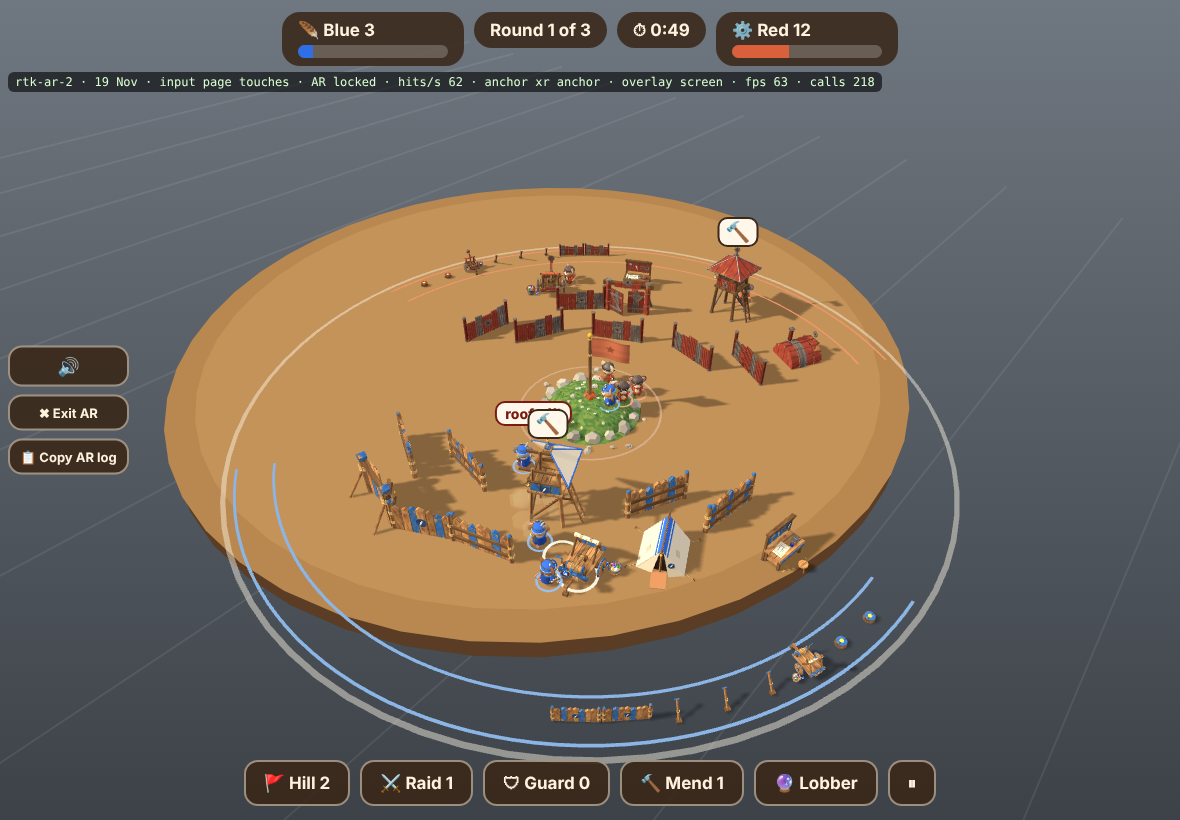
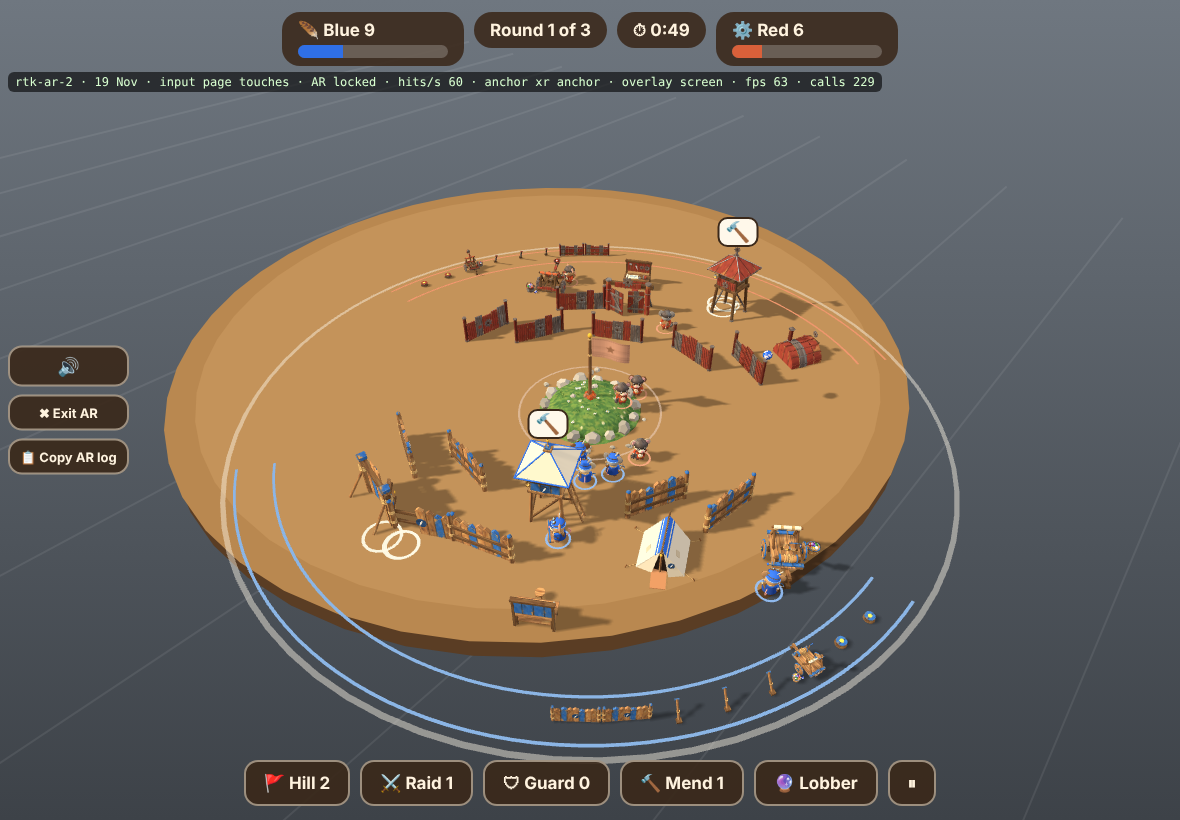
Rolling shots (Lab on, matches off): hops, roll, knock, slowing; Marble/Big/Bouncer; roll test and shots; Lab switch
Claude-Session: https://claude.ai/code/session_0171oc5wTsPoimaja7RRfUcs

diff --git a/games/sofa-siege/game.js b/games/sofa-siege/game.js
@@ -647,7 +647,7 @@ function landV2(a,pos,hit){var A=AMMO[a.ammo]||AMMO.marble,W=A.w,n0=SG.stats.par
   var r=boom(a,pos,hit);
   if(SG.mode==='lab'){labNote('land',a,pos,r.R,hit);labFx(SG.stats.partsOff-n0);}
   snd('thud');a.live=false;a.T=a.t;a.hx=pos[0];a.hy=pos[1];a.hz=pos[2];if(a.ammo!=='corks'||!SG.lastHit||SG.lastHit.id!==a.id)SG.lastHit={id:a.id,side:a.side,ammo:a.ammo,x:pos[0],y:pos[1],z:pos[2],piece:hit?hit.id:0,own:!!hit&&hit.side===a.side,part:'',knocked:r.knocked,dizzied:r.n,t:SG.clock};viewPuff(pos[0],pos[2],W.legForce?2:1.2);
-  if(W.roll>0)rollStart(a,pos);}
+  if(W.roll>0)rollStart(a,pos);else if(!hit)momentumLands(a,pos);}
 /* what a landing does, in the order: a tether yanks its part, the blast, mice made dizzy, glue and slowing, a quake. Returns {R, n (mice), knocked (parts off by the blast)}. */
 function boom(a,pos,hit){var A=AMMO[a.ammo]||AMMO.marble,W=A.w,u=U(),n=0,knocked=0,R=labProto('blastR',ammoR(a.ammo,a.high),a),en=1-a.side;
   if(SG.mode==='lab'&&SG.lab){var dl=Math.sqrt((a.x1-a.x0)*(a.x1-a.x0)+(a.z1-a.z0)*(a.z1-a.z0))||1;SG.lastDir={x:(a.x1-a.x0)/dl,z:(a.z1-a.z0)/dl};}
@@ -676,8 +676,62 @@ function tetherAt(a,pos,hit){var u=U(),best=null,bd=1e9;
   if(hit&&hit.total&&hit.side!==a.side&&!hit.down){var i=nearestPart(hit,pos[0],pos[1],pos[2],false);if(i>=0)return {p:hit,i:i};}
   SG.pieces.forEach(function(p){if(p.side===a.side||!p.built||p.down||!p.total||p.parts<=0||Math.abs(p.x-pos[0])>.9||Math.abs(p.z-pos[2])>.9)return;p.ps.forEach(function(q,i){if(q.st!=='on'||q.wy>.35*u)return;var d=dist(q.wx,q.wz,pos[0],pos[2]);if(d<C3.hookR*2.5*u&&d<bd){bd=d;best={p:p,i:i};}});});return best;}
 /* a roller: after landing it rolls on in the direction of travel, knocking off parts at its base and making mice dizzy */
+/* ================= ROLLING SHOTS (CONFIG.v2.rolling) =================
+   A Marble that comes down on open ground does not stop: it hops on 1 to 3 times (each hop shorter and lower, with dust and a tap),
+   then ROLLS on along its flight line, losing distance with every part it knocks loose. The ball has an energy in table units;
+   moving spends it, and each part it meets costs some (a plank a little, a rail more, a post a lot, a Keep part more than any ball has).
+   A part that costs more than the ball has left stops it. A Big Marble is heavy (its cost counts less) and has more energy, so it ploughs
+   through planks and light walls. A gap or a gate with no door lets it pass. Off in matches until the balance is proved; on in the Lab.
+   Touching down on a piece (a hit) still works as before: only a landing on open ground rolls. */
+CONFIG.v2.rolling={
+  on:false,                                   /* matches: off until re-proved. (The Lab has its own switch, on by default.) */
+  speed:2.4,minSpeed:.3,                      /* table units a second at full energy; the slowest it rolls (share of that) */
+  reach:.06,high:.09,                         /* how near a part the ball's middle must come (across, and up and down) to touch it */
+  marble:{hops:2,hopLen:.5,hopH:.16,decay:.6,roll:1.3,mass:1},           /* hops (1 to 3), the first hop's length and height, how much each next one shrinks, the roll after the hops, how much parts' cost counts */
+  big:{hops:1,hopLen:.4,hopH:.1,decay:.6,roll:2.8,mass:.4},
+  bouncer:{roll:.2,mass:.9},                  /* after its own hops (the Bouncer's weapon numbers) a Bouncer rolls this much more */
+  cost:{plank:.35,door:.5,rail:.8,brace:.6,post:2,lintel:1.4,other:.5,tent:1,workshop:1.2,lobber:.8,trap:0,heavy:9},   /* the energy a part takes from the ball; a Keep part (heavy) is more than any ball has */
+  dizzy:true,max:40                           /* mice on the other side it runs into are dizzy; most parts one ball can knock */
+};
+SG.rollingOn=function(){var R=CONFIG.v2.rolling;return SG.mode==='lab'?SG.labRolling!==false:!!R.on;};
+SG.setRolling=function(v){if(SG.mode==='lab')SG.labRolling=!!v;else CONFIG.v2.rolling.on=!!v;if(hasDom)ui();return SG.rollingOn();};
+function rollCost(p,q){var K=CONFIG.v2.rolling.cost,id=q.id||'';if(p.kind==='tower')return K.heavy;
+  if(p.kind==='wall'||p.kind==='gate'){if(/plank/.test(id))return K.plank;if(/door/.test(id))return K.door;if(/rail/.test(id))return K.rail;if(/lintel/.test(id))return K.lintel;if(/post/.test(id))return K.post;return K.other;}
+  if(p.kind==='brace')return K.brace;if(p.kind==='tent')return K.tent;if(p.kind==='workshop')return K.workshop;if(p.kind==='lobber')return K.lobber;if(p.kind==='trap')return K.trap;return K.other;}
+/* the ball starts: from where it came down, along its flight line */
+function momentumStart(a,pos,kind){var R=CONFIG.v2.rolling,c=R[kind==='big'?'big':(kind==='bouncer'?'bouncer':'marble')],u=U(),dx=a.x1-a.x0,dz=a.z1-a.z0,l=Math.sqrt(dx*dx+dz*dz)||1,hops=[],E=0,i;
+  if(kind!=='bouncer'){var n=Math.max(1,Math.min(3,c.hops|0));for(i=0;i<n;i++){hops.push([c.hopLen*Math.pow(c.decay,i)*u,c.hopH*Math.pow(c.decay,i)*u]);}}
+  hops.forEach(function(h){E+=h[0];});E+=c.roll*u;
+  a.rolling=true;a.live=true;a.rm={x:pos[0],z:pos[2],y:.05,dx:dx/l,dz:dz/l,E:E,E0:E,hops:hops,hi:-1,hs:0,mass:c.mass,n:0,tr:0,v:R.speed*u,v0:R.speed*u,hit:0,last:null};
+  a.hy=.05;a.hx=pos[0];a.hz=pos[2];momentumHop(a);}
+function momentumHop(a){var r=a.rm;r.hi++;r.hs=0;if(r.hi<r.hops.length){r.cur=r.hops[r.hi];}else r.cur=null;}
+function momentumEnd(a){var n0=SG.stats.partsOff;a.rolling=false;a.live=false;a.T=a.t;a.rm.done=true;a.hy=.05;viewPuff(a.rm.x,a.rm.z,.5);if(SG.mode==='lab')labFx(SG.stats.partsOff-n0);}
+function momentumTick(a,dt){var r=a.rm,R=CONFIG.v2.rolling,u=U(),want=Math.max(R.minSpeed,r.E/r.E0)*r.v0,n0=SG.stats.partsOff;r.v=want;
+  var dist0=r.v*dt,steps=Math.max(1,Math.ceil(dist0/(.03*u))),sd=dist0/steps;
+  for(var s=0;s<steps&&r.E>0;s++){
+    r.x+=r.dx*sd;r.z+=r.dz*sd;r.E-=sd;r.hs+=sd;
+    if(r.cur){var k=Math.min(1,r.hs/r.cur[0]);r.y=.05+4*r.cur[1]*k*(1-k);if(r.hs>=r.cur[0]){r.y=.05;SG.stats.bounces++;snd('tap');viewPuff(r.x,r.z,.45);momentumHop(a);}}else r.y=.05;
+    if(r.x*r.x+r.z*r.z>3.1*3.1){r.E=0;break;}
+    /* the nearest part within reach */
+    var bp=null,bi=-1,bd=1e9,rr=(R.reach)*u;
+    for(var pi=0;pi<SG.pieces.length;pi++){var p=SG.pieces[pi];if(p.id===a.from||!p.built||p.down||!p.total||p.parts<=0||Math.abs(p.x-r.x)>.9||Math.abs(p.z-r.z)>.9)continue;
+      for(var qi=0;qi<p.ps.length;qi++){var q=p.ps[qi];if(q.st!=='on'||Math.abs(q.wy-r.y)>R.high*u+rr*.3)continue;var d=dist(q.wx,q.wz,r.x,r.z);if(d<rr+.045*u&&d<bd){bd=d;bp=p;bi=qi;}}}
+    for(var ti=0;ti<SG.pieces.length&&r.E>0;ti++){var tp=SG.pieces[ti];if(tp.kind!=='tower'||!tp.built||tp.down||tp.parts<=0||Math.abs(tp.x-r.x)>.6||Math.abs(tp.z-r.z)>.6)continue;var tl=toLocal(tp,r.x,r.z);if(Math.abs(tl[0])<FOOT.tower[0]&&Math.abs(tl[1])<FOOT.tower[1]){r.E=0;snd('tap');viewPuff(r.x,r.z,.6);}}   /* a Keep is a wall of its own: nothing rolls in between its legs */
+    if(r.E<=0)break;
+    if(bp){var q2=bp.ps[bi],cost=rollCost(bp,q2)*r.mass;
+      if(cost>r.E+1e-9){r.E=0;snd('tap');viewPuff(r.x,r.z,.6);break;}
+      r.E-=cost;r.n++;r.hit++;SG.att=a.side;SG.cause='roll';r.last={piece:bp.id,part:q2.id,cost:cost};knock(bp,bi,r.dx,r.dz,'roll',(.1+rand()*.12)*u);settle(bp,a.side);viewPuff(r.x,r.z,.5);
+      if(r.n>=R.max){r.E=0;break;}}
+    if(R.dizzy)SG.mice.forEach(function(m){if(m.side!==a.side&&dist(m.x,m.z,r.x,r.z)<.07*u*1.8)dizzy(m);});}
+  r.tr+=dt;if(r.tr>.11){r.tr=0;viewPuff(r.x,r.z,.22);}   /* a faint trail of dust */
+  a.hx=r.x;a.hz=r.z;a.hy=r.y;
+  if(r.E<=0)momentumEnd(a);}
+/* the Bouncer's last landing rolls on a little, as a ball would */
+function momentumLands(a,pos){var A=AMMO[a.ammo]||AMMO.marble;if(!SG.rollingOn()||a.rolling||A.w.roll>0||A.w.fuse>0||A.w.scatter>1||A.w.splash>0)return;
+  if(a.ammo==='marble'||a.ammo==='big')momentumStart(a,pos,a.ammo);else if(a.ammo==='bouncer'&&CONFIG.v2.rolling.bouncer.roll>0)momentumStart(a,pos,'bouncer');}
+/* ================= end of rolling shots ================= */
 function rollStart(a,pos){var dx=a.x1-a.x0,dz=a.z1-a.z0,l=Math.sqrt(dx*dx+dz*dz)||1;a.rolling=true;a.live=true;a.rl={x:pos[0],z:pos[2],dx:dx/l,dz:dz/l,left:AMMO[a.ammo].w.roll*U(),acc:0,n:0};}
-function rollTick(a,dt){var r=a.rl,u=U(),step=Math.min(r.left,C3.rollSpeed*u*dt),n0=SG.stats.partsOff;r.x+=r.dx*step;r.z+=r.dz*step;r.left-=step;r.acc+=dt;a.hx=r.x;a.hz=r.z;a.hy=.05;
+function rollTick(a,dt){if(a.rm){momentumTick(a,dt);return;}var r=a.rl,u=U(),step=Math.min(r.left,C3.rollSpeed*u*dt),n0=SG.stats.partsOff;r.x+=r.dx*step;r.z+=r.dz*step;r.left-=step;r.acc+=dt;a.hx=r.x;a.hz=r.z;a.hy=.05;
   if(r.x*r.x+r.z*r.z>3.1*3.1)r.left=0;
   SG.mice.forEach(function(m){if(m.side!==a.side&&dist(m.x,m.z,r.x,r.z)<C3.rollR*u*1.8)dizzy(m);});
   if(r.acc>=C3.rollEvery&&r.n<C3.rollMax){var bp=null,bi=-1,bd=C3.rollR*u*2;
@@ -973,7 +1027,7 @@ function syncAll(){
     }else{if(G.obj)G.obj.visible=false;G.ring.visible=false;}});
   /* marbles, corks, aim arc, order marker */
   var seen={};SG.marbles.forEach(function(a){seen[a.id]=1;var o=V.marbles[a.id];if(!o){var AM=AMMO[a.ammo];o=V.marbles[a.id]=(AM&&AM.tint==='cork')?SS.fx.cork():SS.fx.marble(AM&&AM.tint!=='team'?AM.tint:SG.sides[a.side].team);a.sc=(AM&&AM.scale)||1.25;o.scale.setScalar(a.sc);world.add(o);}o.visible=a.t>=0&&!(!a.live&&a.ammo==='glue');
-    if(a.rolling){o.position.set(a.hx,.05+.03,a.hz);o.rotation.x=a.t*14;}
+    if(a.rolling){o.position.set(a.hx,(a.rm?a.hy:.05)+.03,a.hz);o.rotation.x=a.t*14;}
     else if(a.live){var p=marblePos(a,Math.min(1,a.t/a.T));o.position.set(p[0],p[1]+.03,p[2]);o.rotation.x=a.t*9;}
     else if(a.pend){o.position.set(a.hx,Math.max(.034,a.hy*.3)+.03,a.hz);o.scale.setScalar((a.sc||1.25)*(1+.12*Math.sin(SG.clock*26)));}   /* a fused ball lies where it landed, and throbs */
     else{var u=Math.min(1,(a.t-a.T)/.8),dx=a.x1-a.x0,dz=a.z1-a.z0,l=Math.sqrt(dx*dx+dz*dz)||1;o.position.set(a.hx+dx/l*.3*u,Math.max(.034,a.hy*(1-u*2))+Math.abs(Math.sin(u*PI*2))*.08*(1-u),a.hz+dz/l*.3*u);o.scale.setScalar(u>.7?1.25*(1-(u-.7)/.3):1.25);}});
@@ -1344,7 +1398,8 @@ function pullSet(sd,t,P){if(t){if(sd.pull&&sd.pull.zone!==t.zone&&t.p!=null)snd(
 SG.fireLobber=function(s,tx,tz,pw,opts){opts=opts||{};var side=SG.sides[s];if(!side)return null;var li=opts.li==null?(side.lsel||0):opts.li,l=lobberOf(s,li);if(!l)return null;
   var info=null,ax=tx,az=tz;
   if(pw!=null&&!opts.exact){var P=CONFIG.pull,p=Math.max(0,Math.min(1,pw)),dx=tx-l.x,dz=tz-l.z,d=Math.sqrt(dx*dx+dz*dz);if(d<1e-6){dx=0;dz=l.z>0?-1:1;d=1;}
-    var rg=P.rangeMin+p*(P.rangeMax-P.rangeMin),sc=opts.scatter!=null?opts.scatter:SG.pullScatter(p),rf=opts.rand||rand,an=rf()*PI*2,rd=sc*Math.sqrt(rf());
+    var rg=P.rangeMin+p*(P.rangeMax-P.rangeMin),sc=opts.scatter!=null?opts.scatter:SG.pullScatter(p),rf=opts.rand||rand,an=sc>0?rf()*PI*2:0,rd=sc>0?sc*Math.sqrt(rf()):0;   /* no random number is used for a shot with no scatter: the game's random stream stays as it was */
+   
     ax=l.x+dx/d*rg+Math.cos(an)*rd;az=l.z+dz/d*rg+Math.sin(an)*rd;
     info={power:p,zone:pullZone(p),range:rg,scatter:sc,aimX:l.x+dx/d*rg,aimZ:l.z+dz/d*rg,missX:ax-(l.x+dx/d*rg),missZ:az-(l.z+dz/d*rg)};}
   var wasHigh=side.high;if(opts.high!=null)side.high=!!opts.high;
@@ -1977,7 +2032,7 @@ function labUi(){if(!hasDom||SG.mode!=='lab'||!SG.lab||SG.phase==='start')return
   if(L.tool==='build'||L.tool==='move'){sub=LAB_KINDS.map(function(k){return '<button class="btn lb'+(L.kind===k&&L.tool==='build'?' on':'')+'" data-a="k_'+k+'">'+(LAB_ICON[k]||'🧩')+' '+labName(k)+'</button>';}).join('');if(L.carry)sub+='<button class="btn lb go" data-a="drop">Drop here</button><button class="btn lb" data-a="cancelcarry">Put it back</button>';}
   else if(L.tool==='fire'||L.tool==='gun'){var ids=AMMO_ORDER.concat(Object.keys(AMMO).filter(function(k){return AMMO_ORDER.indexOf(k)<0;}));
     sub=ids.map(function(id){return '<button class="btn lb ammo'+(L.ammo===id?' on':'')+'" data-a="am_'+id+'" id="lab_a_'+id+'"><span class="ai">'+labEsc(AMMO[id].icon)+'</span><span class="an">'+labEsc(AMMO[id].name)+'</span><span class="ac"></span></button>';}).join('')+
-      '<button class="btn lb'+(L.high?' on':'')+'" data-a="high">⤴ High lob</button>'+'<button class="btn lb'+(SG.easyAim?' on':'')+'" data-a="easy">Easy aim</button>'+(L.tool==='gun'?'<button class="btn lb go big" data-a="gunfire">🔥 Fire!</button>':'')+'<button class="btn lb" data-a="replay">⟲ Replay</button>';}
+      '<button class="btn lb'+(L.high?' on':'')+'" data-a="high">⤴ High lob</button>'+'<button class="btn lb'+(SG.easyAim?' on':'')+'" data-a="easy">Easy aim</button>'+'<button class="btn lb'+(SG.rollingOn()?' on':'')+'" data-a="rolling">Rolling shots</button>'+(L.tool==='gun'?'<button class="btn lb go big" data-a="gunfire">🔥 Fire!</button>':'')+'<button class="btn lb" data-a="replay">⟲ Replay</button>';}
   else if(L.tool==='inspect')sub='<span class="lnote">Tap a piece to see what holds it up. Turn on "Show supports" to see the links.</span>';
   else if(L.tool==='erase')sub='<span class="lnote">Tap a piece to take it away. Undo brings it back.</span>';
   else if(L.tool==='spot')sub='<span class="lnote">Tap the table where the range report should aim.</span>';
@@ -2017,7 +2072,7 @@ function labAct(a,b){var L=SG.lab;if(!L)return;var x;
   if(a.indexOf('tool_')===0){SG.labTool(a.slice(5));return;}
   if(a.indexOf('k_')===0){L.kind=a.slice(2);if(L.tool!=='build')SG.labTool('build');L.ghost.on=false;labUi();return;}
   if(a.indexOf('am_')===0){SG.labSetAmmo(a.slice(3));return;}
-  if(a==='high'){SG.labSetHigh(!L.high);return;}if(a==='easy'){SG.setEasyAim(!SG.easyAim);labUi();return;}
+  if(a==='high'){SG.labSetHigh(!L.high);return;}if(a==='rolling'){SG.setRolling(!SG.rollingOn());labUi();return;}if(a==='easy'){SG.setEasyAim(!SG.easyAim);labUi();return;}
   if(a==='turnL'||a==='turnR'){L.ghost.rot+=(a==='turnL'?1:-1)*PI/12;return;}
   if(a==='undo'){if(L.carry)SG.labCancelCarry();SG.labUndo();return;}if(a==='redo'){SG.labRedo();return;}
   if(a==='drop'){SG.labDrop();return;}if(a==='cancelcarry'){SG.labCancelCarry();labUi();return;}
@@ -2095,6 +2150,7 @@ SG.boot=function(){
   initView();initInput();ui();
   var Q={};location.search.slice(1).split('&').forEach(function(kv){var p=kv.split('=');if(p[0]){try{Q[p[0]]=decodeURIComponent(p[1]||'');}catch(e){Q[p[0]]=p[1]||'';}}});
   if(Q.rules==='1'||window.__RULES===1)SG.rulesDefault=1;
+  if(Q.rolling==='1')CONFIG.v2.rolling.on=true;   /* rolling shots in matches (they are off until the balance is proved) */
   if(Q.shot){SG.shot(Q.shot,Q.team||'blue');ui();SG.camSnap=true;render();SS.whenTextures(function(){SG.camSnap=true;render();render();window.__done=true;},4000);return;}
   if(Q.layout){var lr;try{lr=SG.applyLayout(atob(Q.layout.replace(/-/g,'+').replace(/_/g,'/')));}catch(e){lr={ok:false,reason:'The layout in the address could not be read'};SG.layoutNote=lr.reason;}
     if(E('layoutNote')){E('layoutNote').style.display='block';E('layoutNote').textContent=lr.ok?'Table layout loaded from the address.':'Layout refused: '+lr.reason+' Using the usual table.';}}

diff --git a/games/sofa-siege/tests/roll-test.js b/games/sofa-siege/tests/roll-test.js
@@ -1,0 +1,77 @@
+/* Round Table Kingdom rolling shots test (Lab). Run: NODE_PATH=$(npm root -g) node tests/roll-test.js [--shots]
+   A Marble lands, hops 1 to 3 times, then rolls on along its flight line, knocking loose parts; heavy things stop it. Off in matches. */
+import { createRequire } from 'module';
+import path from 'path';
+import { fileURLToPath } from 'url';
+const require = createRequire(import.meta.url);
+const __dirname = path.dirname(fileURLToPath(import.meta.url));
+const { chromium } = require('playwright');
+const run = async () => {
+  const b = await chromium.launch({ args: ['--use-gl=swiftshader', '--enable-unsafe-swiftshader', '--ignore-gpu-blocklist', '--allow-file-access-from-files'] });
+  const p = await b.newPage({ viewport: { width: 1280, height: 800 } });
+  const errs = []; p.on('pageerror', (e) => errs.push(e.message)); p.on('console', (m) => { if (m.type() === 'error') errs.push(m.text()); });
+  let n = 0, bad = 0;
+  const ok = (name, cond, extra) => { n++; if (!cond) bad++; console.log((cond ? 'PASS ' : 'FAIL ') + name + (extra && !cond ? '  -> ' + extra : '')); };
+  const ev = (f, a) => p.evaluate(f, a);
+  const shots = process.argv.includes('--shots');
+  const shot = (name) => p.screenshot({ path: path.resolve(__dirname, '..', 'shots', name), clip: { x: 340, y: 230, width: 600, height: 400 } });   /* the middle of the table, cropped, so the ball is big enough to see */
+  await p.addInitScript(() => {
+    /* my lobber at the near edge; one target piece (or none) across the table; set rolling; fire a marble to land at tz, and run it out */
+    window.SETUP = (kind, z, rolling) => { SG.labLoadTarget('empty'); SG.labLoadRecs(0, [{ kind: 'lobber', side: 0, x: 0, z: 2.05, rot: Math.PI }]); SG.labLoadRecs(1, kind ? [{ kind, side: 1, x: 0, z, rot: 0 }] : []); SG.setRolling(rolling); SG.stats.bounces = 0; SG.marbles.length = 0; SG.sides[0].aim.on = false; };
+    window.SHOOT = (ammo, tz, settle) => { SG.labSetAmmo(ammo); SG.labSetHigh(false); const off0 = SG.stats.partsOff, a = SG.labFire(0, 0, 0, tz, { force: true, seed: 5 }); if (settle !== false) SG.labSettle(12); return { a, off: SG.stats.partsOff - off0, hz: +a.hz.toFixed(3), hx: +a.hx.toFixed(3), n: a.rm ? a.rm.n : -1, E: a.rm ? a.rm.E : -1, E0: a.rm ? a.rm.E0 : -1, by: SG.lastKnock && SG.lastKnock.by, bounces: SG.stats.bounces }; };
+  });
+  await p.goto('file://' + path.resolve(__dirname, '..', 'index.html'));
+  await p.waitForFunction('window.__done', null, { timeout: 60000 });
+  await ev(() => { document.getElementById('m_lab').click(); SG.hold = true; SG.lab.card = false; SG.lab.crew = false; });
+  ok('the Lab has rolling shots on by default; a match has them off (CONFIG.v2.rolling.on is false)', await ev(() => SG.rollingOn() === true && SG.CONFIG.v2.rolling.on === false));
+
+  /* a marble that lands short of a wall rolls into it */
+  const w1 = await ev(() => { SETUP('wall', -1.5, false); const off = SHOOT('marble', -.9); SETUP('wall', -1.5, true); const on = SHOOT('marble', -.9); return { off, on }; });
+  ok('rolling off: a marble that lands 0.6 short of a wall knocks nothing (as before)', w1.off.off === 0 && w1.off.n === -1, JSON.stringify(w1.off));
+  ok('rolling on: the same shot rolls into the wall and knocks a part off, by "roll"', w1.on.off >= 1 && w1.on.by === 'roll' && w1.on.hz > -1.9, JSON.stringify(w1.on));
+  /* hops */
+  const hp = await ev(() => { SETUP(null, 0, true); const a = SHOOT('marble', -1); SG.CONFIG.v2.rolling.marble.hops = 3; SETUP(null, 0, true); const b3 = SHOOT('marble', -1); SG.CONFIG.v2.rolling.marble.hops = 2; SETUP(null, 0, true); const bg = SHOOT('big', -1); return { a: a.bounces, b3: b3.bounces, big: bg.bounces, hz: [a.hz, b3.hz, bg.hz] }; });
+  ok('a bounce count: a Marble hops twice, three when set to 3 (CONFIG), a Big Marble once', hp.a === 2 && hp.b3 === 3 && hp.big === 1, JSON.stringify(hp));
+  ok('it rolls on past its hops: it ends well beyond where it landed, and the Big Marble goes furthest', hp.hz[0] < -2 && hp.hz[2] < hp.hz[0] - .3, JSON.stringify(hp.hz));
+  /* a gate: bare and intact are different from a wall */
+  const gt = await ev(() => { SETUP('gate', -1.5, true); const g = SG.pieces.filter((q) => q.side === 1 && q.kind === 'gate')[0]; g.ps.filter((q) => /door|lintel/.test(q.id)).forEach((q) => SG.debug.knock(g.id, q.id)); SG.step(1); const bare = SHOOT('marble', -.9);
+    SETUP('wall', -1.5, true); const wl = SHOOT('marble', -.9); return { bare, wl, ps: g.ps.map((q) => q.id + ':' + q.st).join(' ') }; });
+  ok('a gate with no door and no lintel: the marble rolls through it (no part touched, ends past the gate)', gt.bare.n === 0 && gt.bare.hz < -1.9, JSON.stringify(gt));
+  ok('a wall stops the same marble short of the far side', gt.wl.hz > -1.9 && gt.wl.E <= 0, JSON.stringify(gt.wl));
+  /* a hit slows it */
+  const sl = await ev(() => { SETUP('wall', -1.5, true); SG.labSetAmmo('marble'); const a = SG.labFire(0, 0, 0, -.9, { force: true, seed: 5 }); let v0 = 0, v1 = 0, hit = false, steps = 0; const trace = [];
+    while (steps++ < 700 && !(a.rm && a.rm.done)) { SG.step(1 / 60); if (a.rm) { if (!v0 && a.rolling && a.rm.n === 0) v0 = a.rm.v; if (a.rm.n >= 1 && !hit) { hit = true; v1 = a.rm.v; } if (steps % 20 === 0) trace.push(+a.rm.v.toFixed(2)); } }
+    return { v0, v1, hit, E: a.rm && a.rm.E0 }; });
+  ok('a hit slows it: its speed just after knocking a part is lower than just before', sl.hit && sl.v1 < sl.v0 * .8, JSON.stringify(sl));
+  const lo = await ev(() => { SETUP(null, 0, true); const a = SHOOT('marble', -.9); SETUP('wall', -1.5, true); const b2 = SHOOT('marble', -.9); return { free: a.hz, wall: b2.hz }; });
+  ok('a wall in the way shortens the roll (ends nearer than on open table)', lo.wall > lo.free + .5, JSON.stringify(lo));
+  /* the Big Marble ploughs, and a Keep stops everything */
+  const bg = await ev(() => { SETUP('wall', -1.5, true); const m = SHOOT('marble', -.9); SETUP('wall', -1.5, true); const b2 = SHOOT('big', -.9); SETUP('tower', -1.5, true); const t = SHOOT('big', -.9); return { m, b2, t: { off: t.off, hz: t.hz } }; });
+  ok('a Big Marble ploughs through more of the wall than a Marble and gets further', bg.b2.off > bg.m.off && bg.b2.hz < bg.m.hz - .5, JSON.stringify(bg));
+  ok('a Keep stops even a Big Marble (no part rolled off it)', bg.t.hz > -1.9, JSON.stringify(bg.t));
+  /* deterministic */
+  const det = await ev(() => { const r = () => { SETUP('wall', -1.5, true); const s = SHOOT('marble', -.9); return JSON.stringify([s.hz, s.hx, s.off, s.n, SG.pieces.filter((q) => q.side === 1)[0].ps.map((q) => q.st + q.rx.toFixed(3)).join('')]); }; return [r(), r()]; });
+  ok('the same seed gives the same roll, the same parts and the same places (deterministic)', det[0] === det[1], det.join(' / '));
+  /* a Bouncer and the cork and glue are as before */
+  const bn = await ev(() => { SETUP('wall', -1.5, true); const b2 = SHOOT('bouncer', -1.8); return b2; });
+  ok('a Bouncer hops over a wall and lands past it (1 bounce)', bn.bounces === 1 && bn.hz < -1.75, JSON.stringify(bn));
+  ok('corks and glue do not roll', await ev(() => { SETUP('wall', -1.5, true); const c = SHOOT('corks', -.9), g = SHOOT('glue', -.9); return c.n === -1 && g.n === -1; }));
+  /* matches: off, identical */
+  ok('in a match no ball rolls on (rolling is off), and ?rolling=1 or SG.setRolling(true) turns it on', await ev(() => { SG.hold = true; SG.start('blue', { seed: 4242 }); SG.demo(11, 0); SG.sides[1].layout = 0; SG.skipBuild(); SG.begin(); SG.step(SG.CONFIG.count + .05); SG.sides[0].bot = SG.sides[1].bot = false; SG.stepUntil(() => SG.debug.crewReady(0), 15); SG.sides[0].reload = 0;
+    const off = SG.rollingOn(), a = SG.fire(0, 0, -.8); SG.step(3); const ran = !!a.rm; SG.setRolling(true); const on = SG.rollingOn(); SG.setRolling(false); return off === false && !ran && on === true && SG.rollingOn() === false; }));
+  /* screenshots */
+  if (shots) {
+    /* near the camera, with the panels hidden: the marble comes down 0.6 short of a wall and rolls into it */
+    await ev(() => { document.getElementById('m_lab').click(); SG.hold = true; SG.lab.card = false; SG.lab.crew = false; ['lab', 'hud', 'bar', 'say', 'tag'].forEach((id) => { const e = document.getElementById(id); if (e) e.style.display = 'none'; }); document.querySelectorAll('.bar,.pop,#ui .btn').forEach((e) => { e.style.display = 'none'; });
+      SETUP('wall', .55, true); SG.labSetAmmo('marble'); SG.labFire(0, 0, 0, 1.0, { force: true, seed: 5 }); SG.setCam(0); SG.camSnap = true; });
+    for (let i = 0; i < 60; i++) { const st = await ev(() => { SG.step(.04); const m = SG.marbles[0]; return m && m.rm ? m.rm.hi : -1; }); if (st >= 0) break; }
+    await ev(() => { SG.step(.15); SG.render(); }); await shot('roll-1.png');
+    await ev(() => { SG.step(.45); SG.render(); }); await shot('roll-2.png');
+    await ev(() => { SETUP('gate', .55, true); const g = SG.pieces.filter((q) => q.side === 1 && q.kind === 'gate')[0]; g.ps.filter((q) => /door|lintel/.test(q.id)).forEach((q) => SG.debug.knock(g.id, q.id)); SG.step(1); SG.labSetAmmo('big'); SG.labFire(0, 0, 0, 1.25, { force: true, seed: 5 }); SG.step(1.5); SG.render(); });
+    await shot('roll-3.png');
+  }
+  ok('no page errors', errs.length === 0, errs.join(' | '));
+  console.log(bad ? 'FAILED ' + bad + ' of ' + n : 'ALL ' + n + ' PASSED');
+  await b.close(); process.exit(bad ? 1 : 0);
+};
+run().catch((e) => { console.error(e); process.exit(1); });

diff --git a/games/sofa-siege/DESIGN.md b/games/sofa-siege/DESIGN.md
@@ -144,3 +144,15 @@ The aiming bot throws a Glue blob where a mender is at work among fallen parts, 
 ## The Lab (20 Nov): a shooting range
 
 Harry asked for "more of a sandbox, more just like a shooting range version of this to help with development". It is built as a mode of the same page (`SG.mode === 'lab'`), reusing the real pieces, `AMMO` table, blast, supports and collapse code, so what is learned there is true in a match. How to use it, the design record, how to add a prototype and what is not done are in `LAB.md`; the measured results of every ammunition against every target are in `RANGE_REPORT.md`.
+
+
+## Pull-back aiming (20 Nov): a slingshot, with a little skill
+**For kids, three lines:**
+1. Put your finger on a lobber and pull it back, away from where you want to hit. The band stretches.
+2. Watch the meter: stop in the green. Green goes exactly where you aim. Too short is weak; too far makes the marble wobble.
+3. Let go to fire. Bring your finger back to the little ring to cancel. (Easy aim is a button that makes every shot go exactly where you point.)
+
+**How it works.** The drag direction picks the way (opposite to the pull); the pull length picks the power; power picks range (0.7 to 5.6 table units). Numbers are `CONFIG.pull`: minimum pull 0.2 (shorter is a cancel), full pull 1.5, sweet band 65 to 85% of full, a little scatter under it (0.25 units at no power, fading to none), growing scatter over it (up to 1.2 units at full). The band is drawn from the lobber to a pouch that follows the finger, a ring round the lobber grows with power, and the meter stands above and beside the thumb so the finger does not hide it. The lobber leans back and the band twangs on release. High or flat lob stays a button (a finger cannot also choose that without a second gesture; a button is the simplest thing that works). Two lobbers: pressing on one chooses it and pulls only that one; each has its own winding.
+**For tests and bots:** `SG.fireLobber(side, x, z, power01, opts)`. With `power01` the point gives only the direction and the power gives the range, with the scatter for that power; with `power01` null it lands exactly on the point, as `SG.fire` always did. `opts`: `li` (which lobber), `high`, `scatter` (force a number), `rand` (own random function), `exact`. Bots keep using `SG.fire`, so their balance is unchanged.
+**Easy aim** (`SG.easyAim`, a button in the ammo row and in the Lab) puts back the old tap-and-drag aim: exact, no meter. It is OFF by default on the iPad and the screen; it turns ON when an AR table starts under 80 cm across (`CONFIG.pull.easyAr`), because there the table is tiny or far from the camera and a pull of 1.5 table units is only a few pixels of finger, too fine to control.
+**Not proved:** feel on a real iPad finger. The numbers were made to be changed.

diff --git a/games/sofa-siege/README.md b/games/sofa-siege/README.md
@@ -8,6 +8,7 @@ The game plays rules v2 ("Break the camp") by default; `?rules=1` plays the firs
 
 | Test | What it covers | Rules |
 |---|---|---|
+| `pull-test.js` | pull-back aiming: pull length to power, the sweet band, over-pull scatter, cancel, two lobbers, touch events, Easy aim | v2 |
 | `v2-test.js` | v2 rules: the Keep, blasts, supports, ammunition (five kinds, the ammo row), two lobbers (own crew, own reload, own aim), Glue and Bouncer, orders, the budget and the new pieces, piece sizes | v2 |
 | `table-test.js` | two players at one screen, real multi-touch | v2; `RULES=1` before the command runs it under the first rules |
 | `ar-test.js` | AR mode against a fake WebXR device | v2; `RULES=1` for the first rules |
